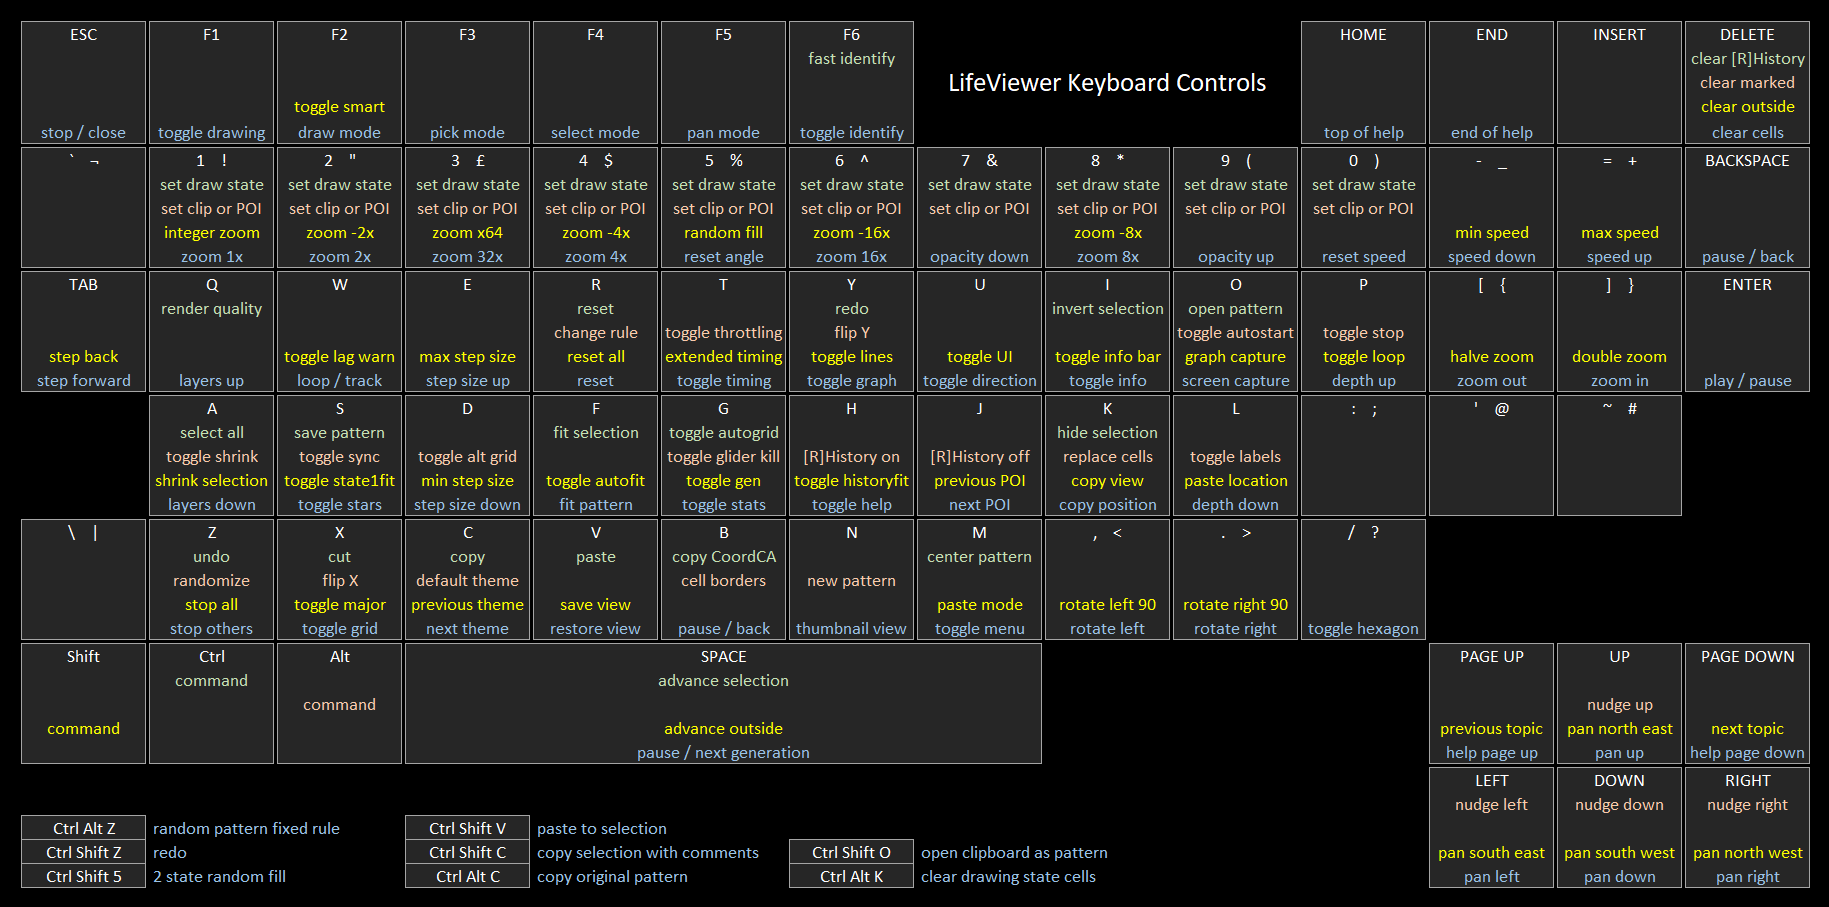
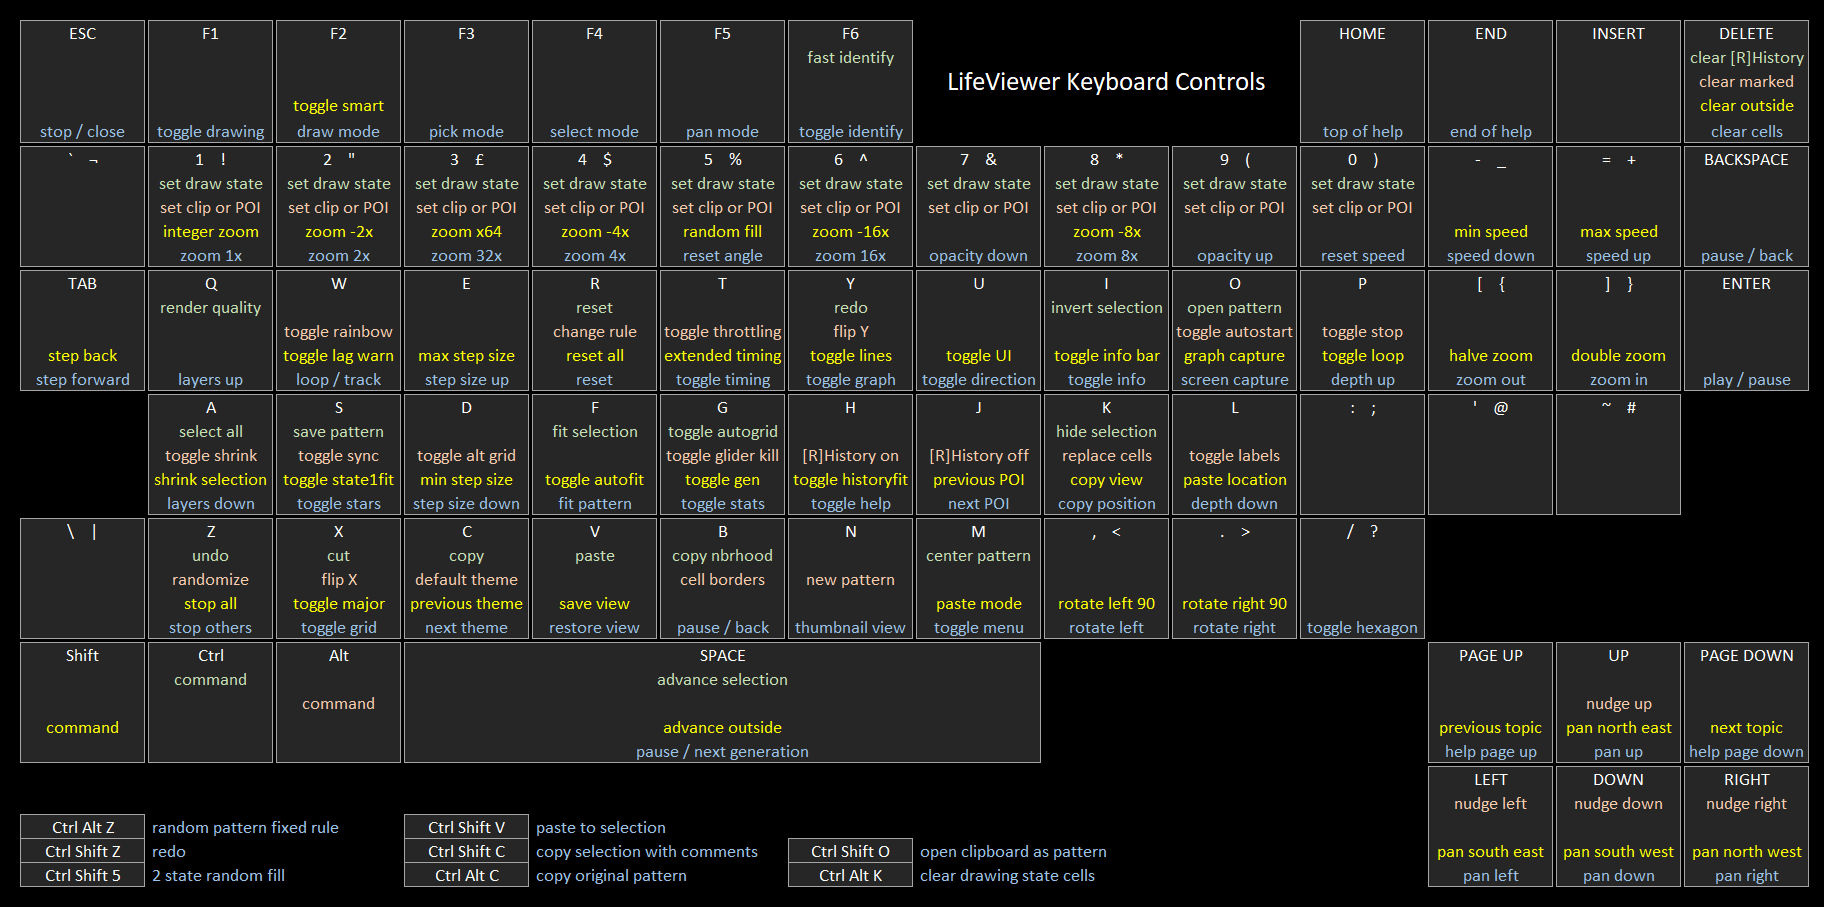
added toggle for rainbow mode, rainbow now works with layers

diff --git a/js/life.js b/js/life.js
@@ -5822,7 +5822,7 @@
 	};
 
 	// reset the colour grid from the grid
-	Life.prototype.resetColourGridBox= function(grid) {
+	Life.prototype.resetColourGridBox = function(grid) {
 		if (this.rainbow) {
 			this.resetColourGridBoxRainbow(grid);
 		} else {
@@ -6693,9 +6693,9 @@
 	Life.prototype.createPixelColoursRainbow = function(brightness) {
 		var pixelColours = this.pixelColours,
 			i = 0,
-			r = 240,
-			g = 0,
-			b = 0,
+			r = 255,
+			g = 15,
+			b = 15,
 			alpha = 255,
 			s = 0,
 			steps = 240 / 6,
@@ -6711,9 +6711,9 @@
 		// create rainbow colours
 		for (i = 1; i <= 240; i += 1) {
 			if (this.littleEndian) {
-				pixelColours[i] = (alpha << 24) | ((b | 0) << 16) | ((g | 0) << 8) | (r | 0);
+				pixelColours[i] = (alpha << 24) | ((b * brightness) << 16) | ((g * brightness) << 8) | (r * brightness);
 			} else {
-				pixelColours[i] = (r << 24) | (g << 16) | (b << 8) | alpha;
+				pixelColours[i] = ((r * brightness) << 24) | ((g * brightness) << 16) | ((b * brightness) << 8) | alpha;
 			}
 			r += incs[inc][0] * amount;
 			g += incs[inc][1] * amount;
@@ -28341,7 +28341,11 @@
 					}
 				}
 			} else {
-				transparentTarget = (i * ((this.aliveMax + 1) / this.layers)) | 0;
+				if (this.rainbow) {
+					transparentTarget = 1;
+				} else {
+					transparentTarget = (i * ((this.aliveMax + 1) / this.layers)) | 0;
+				}
 			}
 
 			// update brightness
@@ -28725,7 +28729,11 @@
 					}
 				}
 			} else {
-				transparentTarget = (i * ((this.aliveMax + 1) / this.layers)) | 0;
+				if (this.rainbow) {
+					transparentTarget = 1;
+				} else {
+					transparentTarget = (i * ((this.aliveMax + 1) / this.layers)) | 0;
+				}
 			}
 
 			// update brightness
@@ -29053,7 +29061,11 @@
 					}
 				}
 			} else {
-				transparentTarget = (i * ((this.aliveMax + 1) / this.layers)) | 0;
+				if (this.rainbow) {
+					transparentTarget = 1;
+				} else {
+					transparentTarget = (i * ((this.aliveMax + 1) / this.layers)) | 0;
+				}
 			}
 
 			// update brightness
@@ -29362,7 +29374,11 @@
 					}
 				}
 			} else {
-				transparentTarget = (i * ((this.aliveMax + 1) / this.layers)) | 0;
+				if (this.rainbow) {
+					transparentTarget = 1;
+				} else {
+					transparentTarget = (i * ((this.aliveMax + 1) / this.layers)) | 0;
+				}
 			}
 
 			// update brightness
@@ -30387,7 +30403,11 @@
 					}
 				}
 			} else {
-				transparentTarget = (i * ((this.aliveMax + 1) / this.layers)) | 0;
+				if (this.rainbow) {
+					transparentTarget = 1;
+				} else {
+					transparentTarget = (i * ((this.aliveMax + 1) / this.layers)) | 0;
+				}
 			}
 
 			// update brightness
@@ -30859,7 +30879,11 @@
 					}
 				}
 			} else {
-				transparentTarget = (i * ((this.aliveMax + 1) / this.layers)) | 0;
+				if (this.rainbow) {
+					transparentTarget = 1;
+				} else {
+					transparentTarget = (i * ((this.aliveMax + 1) / this.layers)) | 0;
+				}
 			}
 
 			// update brightness
@@ -31318,7 +31342,11 @@
 					}
 				}
 			} else {
-				transparentTarget = (i * ((this.aliveMax + 1) / this.layers)) | 0;
+				if (this.rainbow) {
+					transparentTarget = 1;
+				} else {
+					transparentTarget = (i * ((this.aliveMax + 1) / this.layers)) | 0;
+				}
 			}
 
 			// update brightness
@@ -31833,7 +31861,11 @@
 					}
 				}
 			} else {
-				transparentTarget = (i * ((this.aliveMax + 1) / this.layers)) | 0;
+				if (this.rainbow) {
+					transparentTarget = 1;
+				} else {
+					transparentTarget = (i * ((this.aliveMax + 1) / this.layers)) | 0;
+				}
 			}
 
 			// update brightness

diff --git a/js/keys.js b/js/keys.js
@@ -320,6 +320,20 @@
 						me.menuManager.notification.notify("Throttling " + (me.canBailOut ? "On" : "Off"), 15, 40, 15, true);
 						break;
 
+					// w for toggle rainbow display
+					case 87:
+						// toggle rainbow mode
+						if (!(me.engine.multiNumStates > 2 || me.engine.isHROT || me.engine.isPCA || me.engine.isLifeHistory || me.engine.isRuleTree || me.engine.isMargolus)) {
+							me.engine.rainbow = !me.engine.rainbow;
+							me.engine.createColourIndex();
+							if ((me.engine.counter & 1) === 0) {
+								me.engine.resetColourGridBox(me.engine.grid16);
+							} else {
+								me.engine.resetColourGridBox(me.engine.nextGrid16);
+							}
+						}
+						break;
+
 					// x for flip X
 					case 88:
 						// flip selection horizontally
